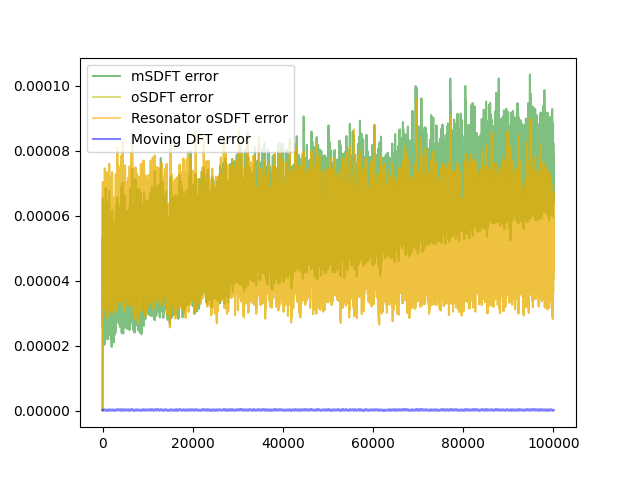
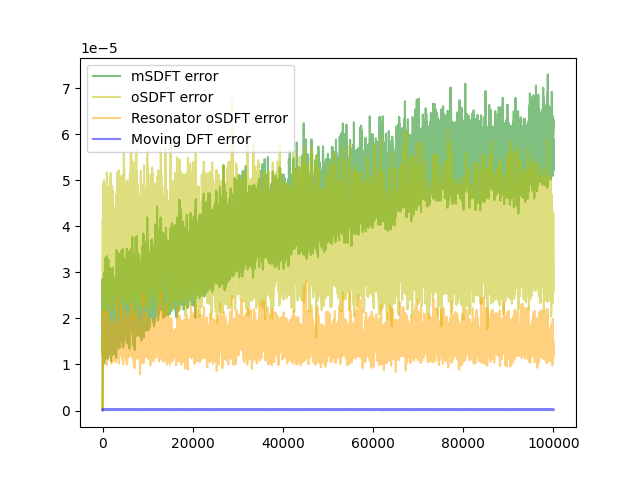
Fixed resonator oSDFT

diff --git a/sdft.py b/sdft.py
@@ -6,20 +6,26 @@ import collections
 from forcedarray import csZeros, csArray, csExp, csSum
 
 np.random.seed(0)
-#x = np.random.randn(100000).astype(np.single)
-x = np.tile(np.random.randn(1000), 100)
+x = np.random.randn(32000).astype(np.single)
+#x = np.tile(np.random.randn(1000), 100)
 
 
 
 def get_range(k, mul):
-    return csExp(-1j * 2 * np.pi * k * mul)
-    #firsthalf = csExp(-1j * 2 * np.pi * csArray(k.array[:len(k.array) // 2 + 1]) * mul)
-    #if len(k.array) % 2 == 0:
-    #    retval = csArray(np.concatenate((firsthalf.array, np.flip(firsthalf.array[1:-1].conj()))))
-    #else:
-    #    retval = csArray(np.concatenate((firsthalf.array, np.flip(firsthalf.array[1:].conj()))))
+    #return csExp(-1j * 2 * np.pi * k * mul)
+    firsthalf = csExp(-1j * 2 * np.pi * csArray(k.array[:len(k.array) // 2 + 1]) * mul)
+    if len(k.array) % 2 == 0:
+        retval = csArray(np.concatenate((firsthalf.array, np.flip(firsthalf.array[1:-1].conj()))))
+    else:
+        retval = csArray(np.concatenate((firsthalf.array, np.flip(firsthalf.array[1:].conj()))))
 
-    #return retval
+    return retval
+
+def fix_array(a):
+    return csArray(np.concatenate((a.array[:len(a.array)//2+1], np.flip(a.array[1:len(a.array)//2].conj()))))
+
+def fix_array2(a):
+    return np.concatenate((a[:len(a)//2+1], np.flip(a[1:len(a)//2].conj())))
 
 class SDFT():
     def __init__(self, size=10):
@@ -36,7 +42,7 @@ class SDFT():
         self.buffer.append(x)
 
         new = get_range(csArray(np.arange(self.size)), 1 / self.size).conj() * (self.last_result + x - lastx)
-
+        new = fix_array(new)
         self.last_result = new
 
         return self.last_result.array
@@ -55,12 +61,12 @@ class mSDFT():
         self.buffer.append(x)
 
         g = get_range(csArray(np.arange(self.size)), ((self.cnt) % self.size) / self.size)
-
         new = self.internal + g * (x - lastx)
+        new = fix_array(new)
         self.internal = new
 
         self.cnt += 1
-        return (new * get_range(csArray(np.arange(self.size)), (self.cnt % self.size) / self.size).conj()).array
+        return fix_array((self.internal * get_range(csArray(np.arange(self.size)), (self.cnt % self.size) / self.size).conj())).array
 
 class oSDFT():
     def __init__(self, size=10):
@@ -81,10 +87,10 @@ class oSDFT():
 
         y = (csSum(c * self.internal) / self.size)
         new = self.internal + (g * (x - y))
-
+        new = fix_array(new)
         self.internal = new
 
-        return (self.internal * get_range(csArray(np.arange(self.size)), (self.cnt % self.size) / self.size).conj()).array
+        return fix_array((self.internal * get_range(csArray(np.arange(self.size)), (self.cnt % self.size) / self.size).conj())).array
 
 class resoSDFT():
     def __init__(self, size=10):
@@ -102,10 +108,10 @@ class resoSDFT():
 
         y = (csSum(self.internal) / self.size)
         new = get_range(csArray(np.arange(self.size)), 1 / self.size).conj() * (self.internal + x - y)
-
+        new = fix_array(new)
         self.internal = new
 
-        return (self.internal * get_range(csArray(np.arange(self.size)), (self.cnt % self.size) / self.size).conj()).array
+        return fix_array(self.internal).array
 
 
 class MOVDFT():
@@ -120,7 +126,7 @@ class MOVDFT():
         self.buffer.popleft()
         self.buffer.append(x)
 
-        return np.fft.fft(np.array(self.buffer).astype(self.type)).astype(self.type)
+        return fix_array2(np.fft.fft(np.array(self.buffer).astype(self.type)).astype(self.type))
 
 windowsize = 64
 
@@ -151,7 +157,15 @@ dif_osdft = np.mean(np.abs(res_movdft_f64 - res_osdft), axis=1)
 dif_resosdft = np.mean(np.abs(res_movdft_f64 - res_resosdft), axis=1)
 dif_movdft = np.mean(np.abs(res_movdft_f64 - res_movdft_f32), axis=1)
 
+dif_selt_movdft64 = np.mean(np.abs(res_movdft_f64[:, 1:windowsize//2] - np.flip(res_movdft_f64[:, windowsize//2+1:].conj(), axis=1)), axis=1)
+dif_selt_movdft32 = np.mean(np.abs(res_movdft_f32[:, 1:windowsize//2] - np.flip(res_movdft_f32[:, windowsize//2+1:].conj(), axis=1)), axis=1)
+dif_selt_sdft = np.mean(np.abs(res_sdft[:, 1:windowsize//2] - np.flip(res_sdft[:, windowsize//2+1:].conj(), axis=1)), axis=1)
+dif_selt_msdft = np.mean(np.abs(res_msdft[:, 1:windowsize//2] - np.flip(res_msdft[:, windowsize//2+1:].conj(), axis=1)), axis=1)
+dif_selt_osdft = np.mean(np.abs(res_osdft[:, 1:windowsize//2] - np.flip(res_osdft[:, windowsize//2+1:].conj(), axis=1)), axis=1)
+dif_selt_resosdft = np.mean(np.abs(res_resosdft[:, 1:windowsize//2] - np.flip(res_resosdft[:, windowsize//2+1:].conj(), axis=1)), axis=1)
 
+#a = res_movdft_f64[:, 1:windowsize//2]
+#b = np.flip(res_movdft_f64[:, windowsize//2+1:].conj(), axis=1)
 def plot_x():
     plt.plot(x, color="y")
 
@@ -167,11 +181,18 @@ def plot_diffs():
     #plt.plot(dif_sdft, color="r", alpha=0.5, label="SDFT error")
     plt.plot(dif_msdft, color="g", alpha=0.5, label="mSDFT error")
     plt.plot(dif_osdft, color="y", alpha=0.5, label="oSDFT error")
-    plt.plot(dif_osdft, color="orange", alpha=0.5, label="Resonator oSDFT error")
+    plt.plot(dif_resosdft, color="orange", alpha=0.5, label="Resonator oSDFT error")
     plt.plot(dif_movdft, color="b", alpha=0.5, label="Moving DFT error")
     plt.legend()
 
+def plot_selfdiffs():
+    #plt.plot(dif_selt_sdft, color="r", alpha=1, label="SDFT error")
+    plt.plot(dif_selt_msdft, color="g", alpha=1, label="mSDFT error")
+    plt.plot(dif_selt_osdft, color="y", alpha=1, label="oSDFT error")
+    plt.plot(dif_selt_resosdft, color="orange", alpha=1, label="Resonator oSDFT error")
+    plt.plot(dif_selt_movdft32, color="b", alpha=1, label="Moving DFT error")
+    plt.legend()
 
 plot_diffs()
-plt.savefig("forced_csingle_repeat.png")
+#plt.savefig("forced_csingle_repeat.png")
 plt.show()
